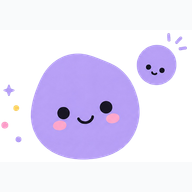
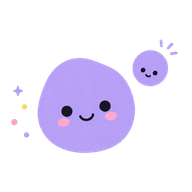
fix: PWA 아이콘 여백 제거 및 maskable 아이콘 분리
- logo.png에서 과도한 흰 여백을 trim하여 로고가 캔버스의 ~90%를 채우도록 재생성
- any/maskable 목적의 아이콘을 단일 파일에서 분리 (pwa-maskable-512x512.png 추가)
- maskable 아이콘은 safe zone(80%) 내에 로고 배치, OS 클리핑 시 흰 테두리 없음
- background_color를 #f9fafb → #ffffff로 아이콘 배경색과 통일
- 아이콘 생성 스크립트(scripts/generate-pwa-icons.mjs) 추가

diff --git a/vite.config.ts b/vite.config.ts
@@ -17,13 +17,13 @@ export default defineConfig({
       srcDir: 'src',
       filename: 'sw.ts',
       registerType: 'autoUpdate',
-      includeAssets: ['pwa-192x192.png', 'pwa-512x512.png'],
+      includeAssets: ['pwa-192x192.png', 'pwa-512x512.png', 'pwa-maskable-512x512.png'],
       manifest: {
         name: 'a.tune',
         short_name: 'a.tune',
         description: 'ADHD 약물 복용 추적 및 일지 앱',
         theme_color: '#1f1b2e',
-        background_color: '#f9fafb',
+        background_color: '#ffffff',
         display: 'standalone',
         orientation: 'portrait',
         scope: '/',
@@ -33,12 +33,19 @@ export default defineConfig({
             src: 'pwa-192x192.png',
             sizes: '192x192',
             type: 'image/png',
+            purpose: 'any',
           },
           {
             src: 'pwa-512x512.png',
             sizes: '512x512',
             type: 'image/png',
-            purpose: 'any maskable',
+            purpose: 'any',
+          },
+          {
+            src: 'pwa-maskable-512x512.png',
+            sizes: '512x512',
+            type: 'image/png',
+            purpose: 'maskable',
           },
         ],
       },
